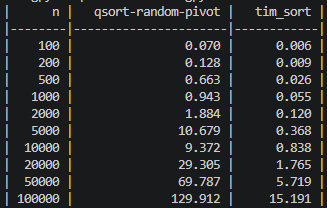
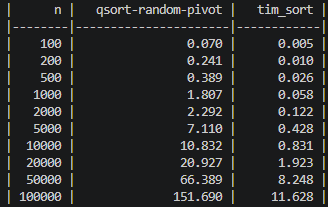
Corrected chart images 3c

diff --git a/main.py b/main.py
@@ -80,7 +80,7 @@ def compare_sort(sizes=[100, 200, 500, 1000, 2000, 5000, 10000, 20000, 50000, 10
         # create list in ascending order
         mylist = list(range(size))
         # shuffles list if needed
-        random.shuffle(mylist)
+        # random.shuffle(mylist)
         result.append([
             len(mylist),
             # time_search(qsort_fixed_pivot, mylist.copy()),
